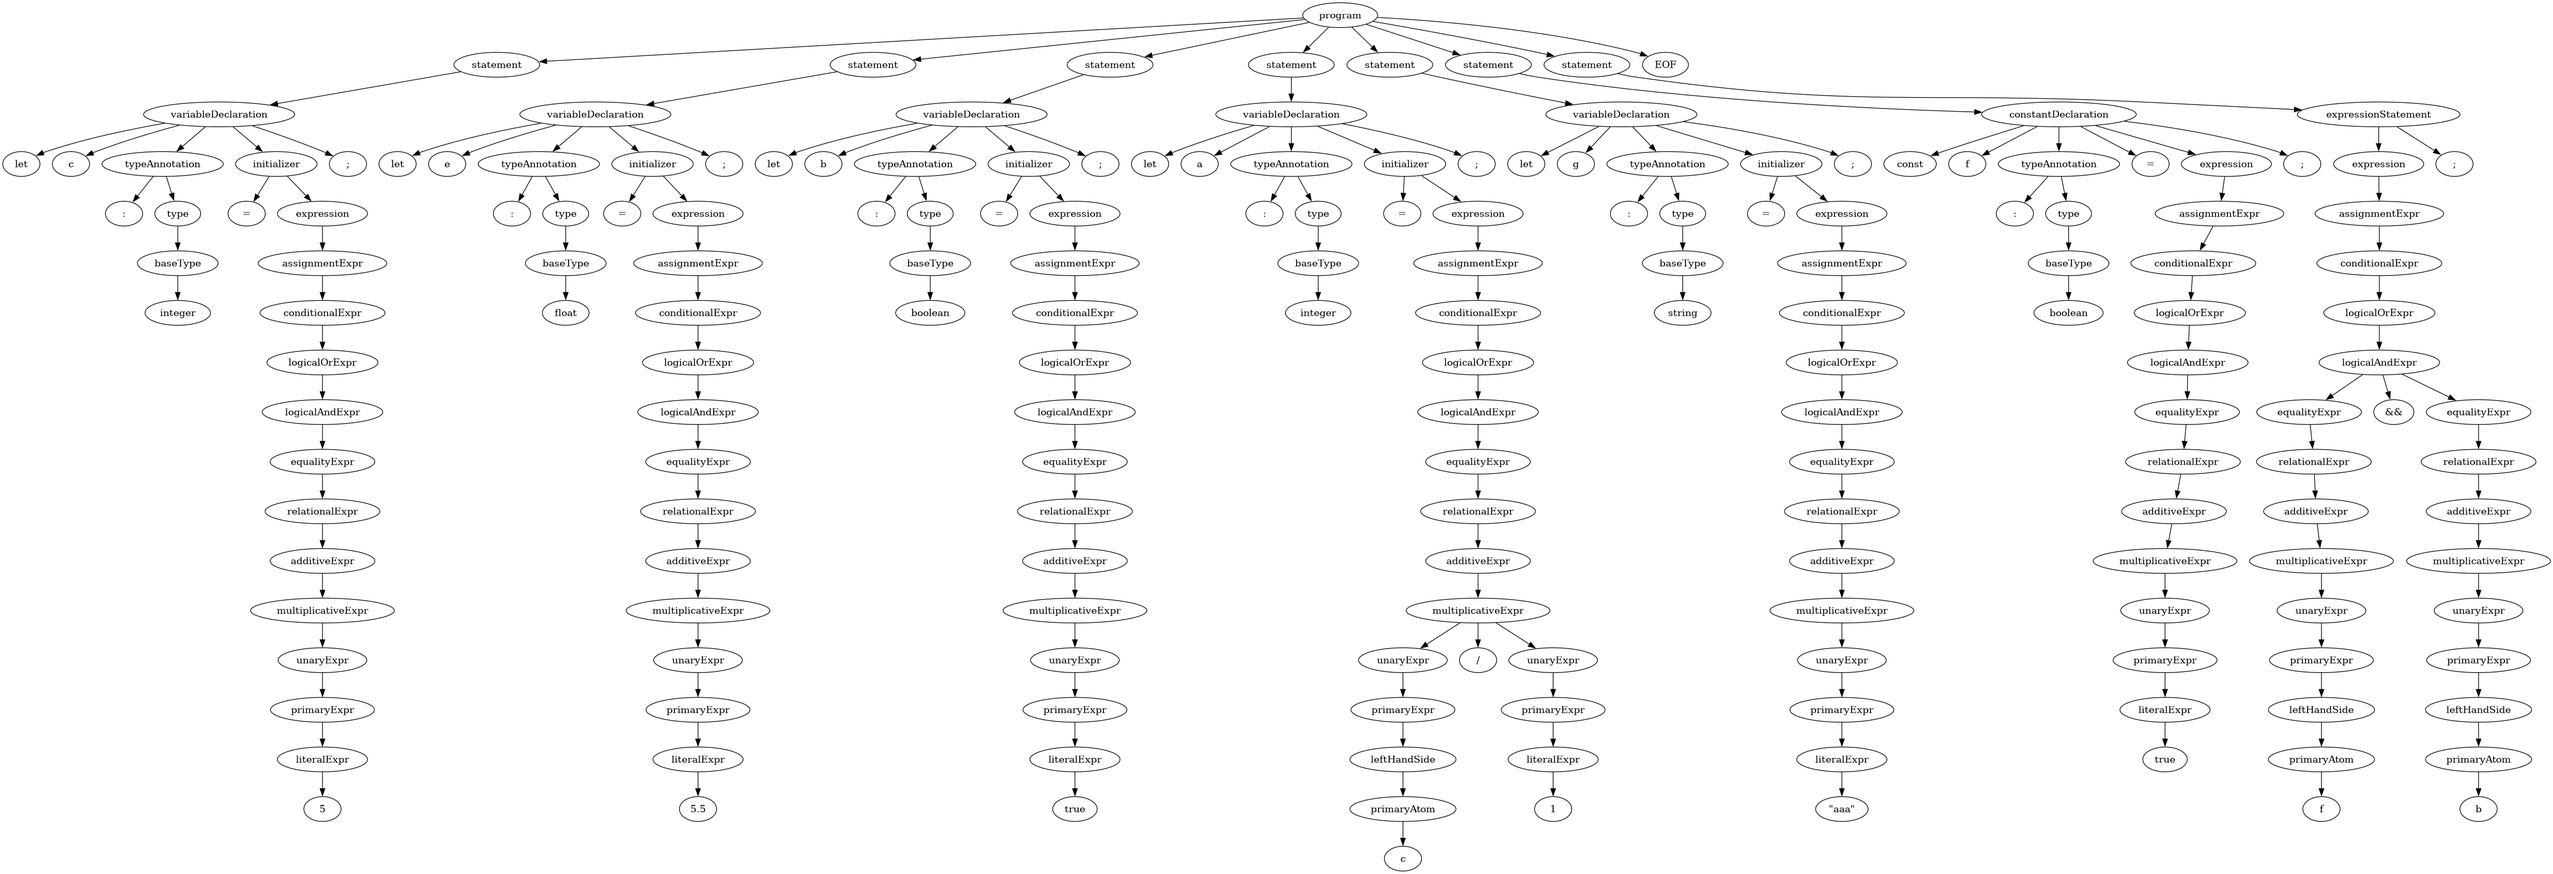
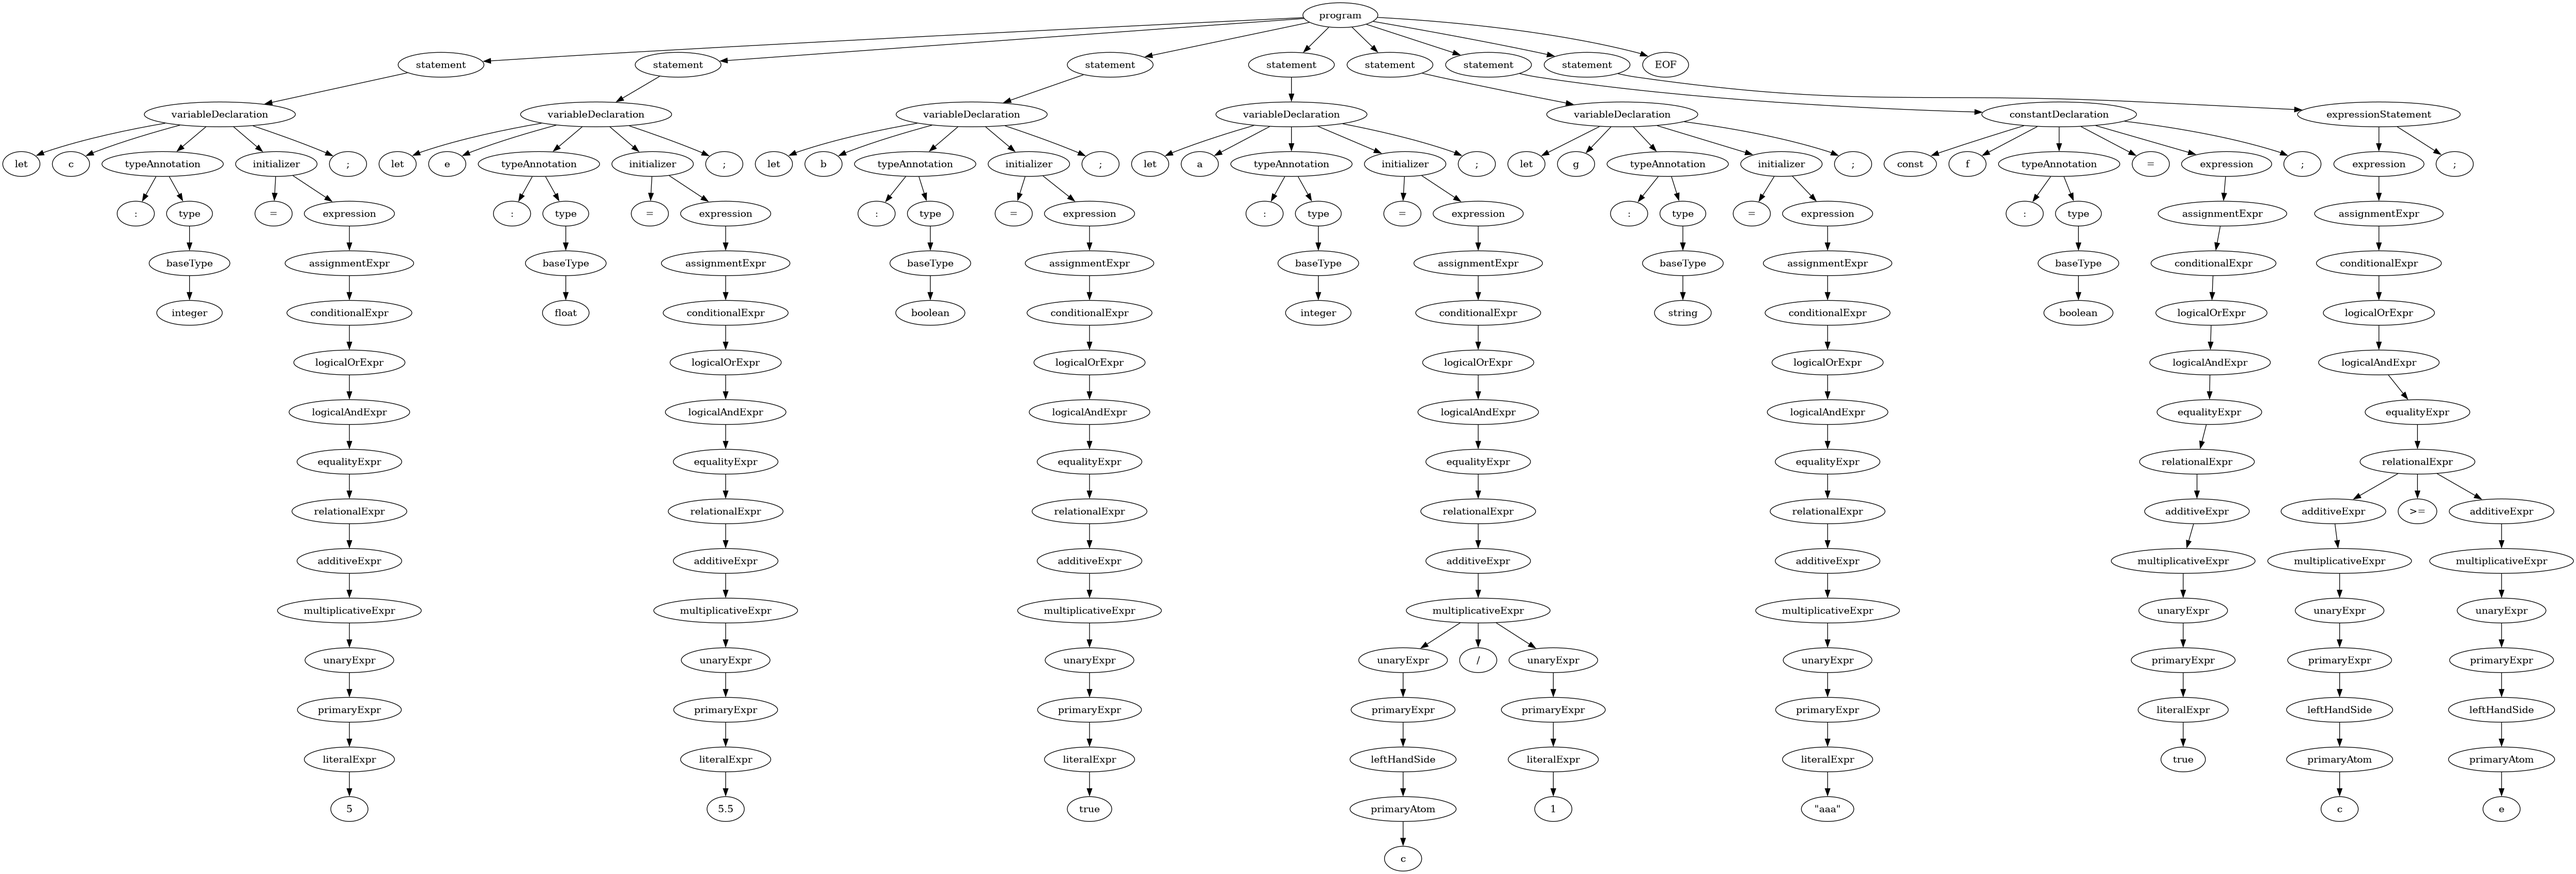
Add support for comparations.

diff --git a/program/Visitor.py b/program/Visitor.py
@@ -152,3 +152,35 @@ class Visitor(CompiscriptVisitor):
             else:
                 raise Exception(f"Type error: operator {operator} not valid for {operand}")
         return self.visit(ctx.getChild(0))
+    
+    def visitEqualityExpr(self, ctx:CompiscriptParser.EqualityExprContext):
+        if ctx.getChildCount() == 3:
+            left = self.visit(ctx.getChild(0))
+            operator = ctx.getChild(1).getText()
+            right = self.visit(ctx.getChild(2))
+    
+            if operator in ["==", "!="]:
+                if left == right:
+                    return "boolean"
+                elif left in ["integer", "float"] and right in ["integer", "float"]:
+                    return "boolean"
+                else:
+                    raise Exception(f"Type error: cannot apply '{operator}' between {left} and {right}")
+            else:
+                raise Exception(f"Unknown equality operator '{operator}'")
+        else:    
+            return self.visit(ctx.getChild(0))
+
+    
+    def visitRelationalExpr(self, ctx:CompiscriptParser.RelationalExprContext):
+        if ctx.getChildCount() == 3:
+            left = self.visit(ctx.getChild(0))
+            right = self.visit(ctx.getChild(2))
+            operator = ctx.getChild(1).getText()
+
+            if left in ["integer", "float"] and right in ["integer", "float"]:
+                return "boolean"
+            else:
+                raise Exception(f"Type error: cannot compare {left} and {right} with {operator}")
+        
+        return super().visitRelationalExpr(ctx)
